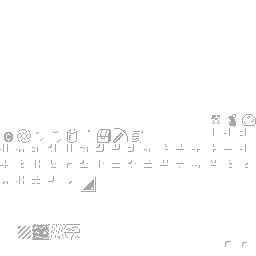
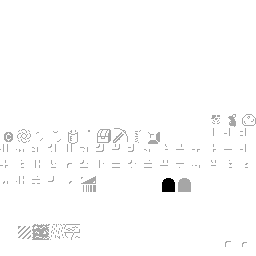
Adding stuff to debug room

diff --git a/tests/GameGameGame.Tests/ContentWorkspaceCompilerTests.cs b/tests/GameGameGame.Tests/ContentWorkspaceCompilerTests.cs
@@ -17,6 +17,10 @@ public sealed class ContentWorkspaceCompilerTests
         Assert.NotNull(result.Registry);
         Assert.Contains(result.Symbols, symbol => symbol.Kind == ContentSymbolKind.EntityTemplate && symbol.Id == "debugPlayer" && symbol.DocumentId == "canonical.creatures.debug-player");
         Assert.Contains(result.Symbols, symbol => symbol.Kind == ContentSymbolKind.ActionPlan && symbol.Id == "debugPlayerActionPlan" && symbol.DocumentId == "canonical.creatures.debug-player");
+        Assert.Contains(result.Symbols, symbol => symbol.Kind == ContentSymbolKind.EntityTemplate && symbol.Id == "scrap" && symbol.DocumentId == "canonical.substrates.scrap");
+        Assert.Contains(result.Symbols, symbol => symbol.Kind == ContentSymbolKind.EntityTemplate && symbol.Id == "chest" && symbol.DocumentId == "canonical.objects.chest");
+        Assert.Contains(result.Symbols, symbol => symbol.Kind == ContentSymbolKind.EntityTemplate && symbol.Id == "bag" && symbol.DocumentId == "canonical.objects.bag");
+        Assert.Contains(result.Symbols, symbol => symbol.Kind == ContentSymbolKind.EntityTemplate && symbol.Id == "pushBlock" && symbol.DocumentId == "canonical.objects.push-block");
         Assert.Contains(result.Symbols, symbol => symbol.Kind == ContentSymbolKind.EntityTemplate && symbol.Id == "debugRoomRoot" && symbol.DocumentId == "canonical.spaces.debug-room-root");
         Assert.Contains(result.Symbols, symbol => symbol.Kind == ContentSymbolKind.Scenario && symbol.Id == "debug-room" && symbol.DocumentId == "debug.debug-room");
         Assert.All(result.WorkspaceDocuments.Where(document => document.SourceKind == ContentWorkspaceSourceKind.Canonical), document => Assert.True(document.IsReadOnly));
@@ -32,11 +36,30 @@ public sealed class ContentWorkspaceCompilerTests
 
         Assert.Empty(materialization.ValidationDiagnostics);
         Assert.Equal(new EntityTemplateId("debugRoomRoot"), materialization.ScenarioRootEntityTemplateId);
-        Assert.Equal(new EntityId("debugPlayer"), materialization.PlayerEntityId);
-        Assert.Equal(new PlaneCoord(new PlaneId("scenarioRoot"), new GridCoord(4, 3)), materialization.PlayerLocation);
+        Assert.Null(materialization.PlayerEntityId);
+        Assert.Null(materialization.PlayerLocation);
+        Assert.Equal([new EntityId("debugPlayer")], materialization.PlayerControls["player-1"]);
+        Assert.Equal(new PlaneCoord(new PlaneId("debugStartRoom"), new GridCoord(4, 3)), materialization.World.GetEntityLocation(new EntityId("debugPlayer")));
+        for (var index = 1; index <= 5; index++)
+        {
+            Assert.True(materialization.World.Entities.ContainsKey(new EntityId($"debugScrap{index}")));
+        }
+
+        Assert.Equal(new PlaneCoord(new PlaneId("debugStartRoom"), new GridCoord(1, 1)), materialization.World.GetEntityLocation(new EntityId("debugChest")));
+        Assert.Equal(new PlaneCoord(new PlaneId("debugStartRoom"), new GridCoord(7, 1)), materialization.World.GetEntityLocation(new EntityId("debugBag")));
+        Assert.Equal(new PlaneCoord(new PlaneId("debugStartRoom"), new GridCoord(4, 4)), materialization.World.GetEntityLocation(new EntityId("debugPushBlock")));
+        var chest = materialization.Registry.EntityTemplates[new EntityTemplateId("chest")];
+        var bag = materialization.Registry.EntityTemplates[new EntityTemplateId("bag")];
+        var pushBlock = materialization.Registry.EntityTemplates[new EntityTemplateId("pushBlock")];
+        Assert.True(chest.Bulk > materialization.Registry.EntityTemplates[new EntityTemplateId("debugPlayer")].Aperture);
+        Assert.True(bag.Bulk <= materialization.Registry.EntityTemplates[new EntityTemplateId("debugPlayer")].Aperture);
+        Assert.True(materialization.Registry.EntityTemplates[new EntityTemplateId("debugPlayer")].Bulk > bag.Aperture);
+        Assert.True(pushBlock.Bulk <= materialization.Registry.EntityTemplates[new EntityTemplateId("debugPlayer")].Aperture);
+        Assert.False(materialization.Registry.EntityTemplates[new EntityTemplateId("debugPlayer")].Bulk > pushBlock.Aperture);
+
         Assert.Empty(run.ValidationDiagnostics);
         Assert.Contains("Run mode: Workspace persisted scenario simulation", run.SetupLines);
-        Assert.Contains(run.FinalStateLines, line => line.Contains("Debug Player: scenarioRoot(4,3), facing North", StringComparison.Ordinal));
+        Assert.Contains(run.FinalStateLines, line => line.Contains("Debug Start Room: scenarioRoot(1,1)", StringComparison.Ordinal));
     }
 
     [Fact]
@@ -716,6 +739,10 @@ public sealed class ContentWorkspaceCompilerTests
     private static ContentWorkspace LoadInitialDebugRoomWorkspace()
     {
         var debugPlayerPath = FindRepositoryFile(Path.Combine("src", "GameGameGame.Content", "Canonical", "Creatures", "DebugPlayer.yaml"));
+        var chestPath = FindRepositoryFile(Path.Combine("src", "GameGameGame.Content", "Canonical", "Objects", "Chest.yaml"));
+        var bagPath = FindRepositoryFile(Path.Combine("src", "GameGameGame.Content", "Canonical", "Objects", "Bag.yaml"));
+        var pushBlockPath = FindRepositoryFile(Path.Combine("src", "GameGameGame.Content", "Canonical", "Objects", "PushBlock.yaml"));
+        var scrapPath = FindRepositoryFile(Path.Combine("src", "GameGameGame.Content", "Canonical", "Substrates", "Scrap.yaml"));
         var debugRoomRootPath = FindRepositoryFile(Path.Combine("src", "GameGameGame.Content", "Canonical", "Spaces", "DebugRoomRoot.yaml"));
         var scenarioPath = FindRepositoryFile(Path.Combine("src", "GameGameGame.Content", "Debug", "DebugRoom.yaml"));
 
@@ -724,6 +751,30 @@ public sealed class ContentWorkspaceCompilerTests
                 EditableContentDocument.LoadYaml(File.ReadAllText(debugPlayerPath)),
                 "canonical.creatures.debug-player",
                 debugPlayerPath,
+                ContentWorkspaceSourceKind.Canonical,
+                IsReadOnly: true),
+            new ContentWorkspaceDocument(
+                EditableContentDocument.LoadYaml(File.ReadAllText(chestPath)),
+                "canonical.objects.chest",
+                chestPath,
+                ContentWorkspaceSourceKind.Canonical,
+                IsReadOnly: true),
+            new ContentWorkspaceDocument(
+                EditableContentDocument.LoadYaml(File.ReadAllText(bagPath)),
+                "canonical.objects.bag",
+                bagPath,
+                ContentWorkspaceSourceKind.Canonical,
+                IsReadOnly: true),
+            new ContentWorkspaceDocument(
+                EditableContentDocument.LoadYaml(File.ReadAllText(pushBlockPath)),
+                "canonical.objects.push-block",
+                pushBlockPath,
+                ContentWorkspaceSourceKind.Canonical,
+                IsReadOnly: true),
+            new ContentWorkspaceDocument(
+                EditableContentDocument.LoadYaml(File.ReadAllText(scrapPath)),
+                "canonical.substrates.scrap",
+                scrapPath,
                 ContentWorkspaceSourceKind.Canonical,
                 IsReadOnly: true),
             new ContentWorkspaceDocument(

diff --git a/src/GameGameGame.Frontend.SadConsole/PlayGridViewModel.cs b/src/GameGameGame.Frontend.SadConsole/PlayGridViewModel.cs
@@ -23,14 +23,18 @@ internal sealed record PlayGridViewModel(
     int Height,
     IReadOnlyList<PlayCellVisual> Cells,
     EntityId ControlledEntityId,
-    GridCoord? ControlledEntityCoord)
+    GridCoord? ControlledEntityCoord,
+    PlaneId PlaneId,
+    EntityId? ContainerEntityId)
 {
-    public PlayCellVisual CellAt(int x, int y) => Cells.Single(cell => cell.X == x && cell.Y == y);
+    public PlayCellVisual? TryCellAt(int x, int y) => Cells.FirstOrDefault(cell => cell.X == x && cell.Y == y);
+
+    public PlayCellVisual CellAt(int x, int y) => TryCellAt(x, y)
+        ?? throw new InvalidOperationException($"Cell ({x},{y}) is outside rendered plane {PlaneId}.");
 
     public static PlayGridViewModel FromSession(PlayableScenarioSession session, TilesetProfile tilesetProfile)
     {
-        var planeId = session.World.GetRegisteredInventoryPlaneId(session.ActiveContainerEntityId)
-            ?? session.ActivePlaneId;
+        var planeId = ResolveRenderedPlane(session);
         var plane = session.World.Planes[planeId];
         var cells = new List<PlayCellVisual>();
 
@@ -62,8 +66,12 @@ internal sealed record PlayGridViewModel(
         }
 
         var controlledCoord = session.World.Entities.ContainsKey(session.PlayerEntityId)
+            && session.World.GetEntityLocation(session.PlayerEntityId).PlaneId == planeId
             ? session.World.GetEntityLocation(session.PlayerEntityId).Coord
             : (GridCoord?)null;
+        var containerEntityId = InventoryPlaneOwnership.TryFindOwner(session.World, planeId, out var ownerId)
+            ? ownerId
+            : (EntityId?)null;
 
         return new PlayGridViewModel(
             session.Name,
@@ -71,7 +79,29 @@ internal sealed record PlayGridViewModel(
             plane.Height,
             cells,
             session.PlayerEntityId,
-            controlledCoord);
+            controlledCoord,
+            planeId,
+            containerEntityId);
+    }
+
+    private static PlaneId ResolveRenderedPlane(PlayableScenarioSession session)
+    {
+        if (session.World.Entities.ContainsKey(session.PlayerEntityId))
+        {
+            var playerPlane = session.World.GetEntityLocation(session.PlayerEntityId).PlaneId;
+            if (session.World.Planes.ContainsKey(playerPlane))
+            {
+                return playerPlane;
+            }
+        }
+
+        var activeContainerPlane = session.World.GetRegisteredInventoryPlaneId(session.ActiveContainerEntityId);
+        if (activeContainerPlane is { } planeId && session.World.Planes.ContainsKey(planeId))
+        {
+            return planeId;
+        }
+
+        return session.ActivePlaneId;
     }
 
     private static int ResolveEntityGlyph(PlayableScenarioSession session, TilesetProfile tilesetProfile, EntityId entityId)

diff --git a/src/GameGameGame.Content/WorkspaceScenarioCatalogService.cs b/src/GameGameGame.Content/WorkspaceScenarioCatalogService.cs
@@ -39,6 +39,10 @@ public static class WorkspaceScenarioCatalogService
     public static readonly IReadOnlyList<string> DefaultDebugRoomWorkspacePaths =
     [
         Path.Combine("src", "GameGameGame.Content", "Canonical", "Creatures", "DebugPlayer.yaml"),
+        Path.Combine("src", "GameGameGame.Content", "Canonical", "Objects", "Chest.yaml"),
+        Path.Combine("src", "GameGameGame.Content", "Canonical", "Objects", "Bag.yaml"),
+        Path.Combine("src", "GameGameGame.Content", "Canonical", "Objects", "PushBlock.yaml"),
+        Path.Combine("src", "GameGameGame.Content", "Canonical", "Substrates", "Scrap.yaml"),
         Path.Combine("src", "GameGameGame.Content", "Canonical", "Spaces", "DebugRoomRoot.yaml"),
         Path.Combine("src", "GameGameGame.Content", "Debug", "DebugRoom.yaml")
     ];
@@ -159,6 +163,16 @@ public static class WorkspaceScenarioCatalogService
         if (relativePath.Contains(Path.Combine("Canonical", "Spaces"), StringComparison.OrdinalIgnoreCase))
         {
             return $"canonical.spaces.{ToKebabCase(fileName)}";
+        }
+
+        if (relativePath.Contains(Path.Combine("Canonical", "Substrates"), StringComparison.OrdinalIgnoreCase))
+        {
+            return $"canonical.substrates.{ToKebabCase(fileName)}";
+        }
+
+        if (relativePath.Contains(Path.Combine("Canonical", "Objects"), StringComparison.OrdinalIgnoreCase))
+        {
+            return $"canonical.objects.{ToKebabCase(fileName)}";
         }
 
         if (relativePath.Contains(Path.Combine("Debug"), StringComparison.OrdinalIgnoreCase))

diff --git a/src/GameGameGame.Frontend.SadConsole/PlayModeConsole.cs b/src/GameGameGame.Frontend.SadConsole/PlayModeConsole.cs
@@ -152,7 +152,7 @@ internal sealed class PlayModeConsole : Console
         ClearSurface();
         DrawBorder();
         Print(2, 1, $"Play: {_session.Name} [{_session.ScenarioId}]", Color.White);
-        Print(2, 2, $"Current place: {_session.ActiveContainerEntityId} | Player: {_session.PlayerEntityId} | {_message}", Color.Gray);
+        Print(2, 2, $"Current place: {CurrentPlaceLabel()} | Player: {_session.PlayerEntityId} | {_message}", Color.Gray);
         var visibleGrid = _animationPresenter.BaseGrid ?? _grid;
         var hidden = _animationPresenter.IsAnimating ? new HashSet<EntityId> { _session.PlayerEntityId } : null;
         var previewCoord = _movementPreview.TryDestination(_grid.ControlledEntityCoord ?? new GridCoord(0, 0), out var destination)
@@ -181,6 +181,19 @@ internal sealed class PlayModeConsole : Console
                 SetGlyph(x, y, _tilesetProfile.Blank, Color.White, Color.Black);
             }
         }
+    }
+
+    private string CurrentPlaceLabel()
+    {
+        var placeId = _grid.ContainerEntityId;
+        if (placeId is null)
+        {
+            return _grid.PlaneId.ToString();
+        }
+
+        return _session.World.Entities.TryGetValue(placeId.Value, out var entity) && !string.IsNullOrWhiteSpace(entity.Name)
+            ? $"{entity.Name} ({placeId})"
+            : placeId.Value.ToString();
     }
 
     private void DrawBorder()

diff --git a/src/GameGameGame.Frontend.SadConsole/PlayMovementAnimationPresenter.cs b/src/GameGameGame.Frontend.SadConsole/PlayMovementAnimationPresenter.cs
@@ -33,11 +33,18 @@ internal sealed class PlayMovementAnimationPresenter(
     public void Start(PlayGridViewModel beforeGrid, GridCoord before, GridCoord after, CoreDirection direction)
     {
         BaseGrid = beforeGrid;
+        var cell = beforeGrid.TryCellAt(before.X, before.Y);
+        if (cell?.EntityGlyph is null)
+        {
+            Clear();
+            return;
+        }
+
         var facing = tilesetProfile.Roles.FacingGlyph(direction);
         var entity = new PlayEntityVisualBundle(
             entityId.Value,
             new PlayWorldCoord(before.X, before.Y),
-            new PlayVisualGlyph(beforeGrid.CellAt(before.X, before.Y).EntityGlyph ?? '?', Color.Yellow, Color.Black, PlayRenderLayer.EntitySprite, $"entity:{entityId}:sprite"),
+            new PlayVisualGlyph(cell.EntityGlyph.Value, Color.Yellow, Color.Black, PlayRenderLayer.EntitySprite, $"entity:{entityId}:sprite"),
             [new PlayVisualGlyph(facing.Glyph, Color.LightYellow, Color.Black, PlayRenderLayer.EntityAccent, $"entity:{entityId}:facing")],
             []);
         var move = new PlayMoveAnimation(entityId.Value, new PlayWorldCoord(before.X, before.Y), new PlayWorldCoord(after.X, after.Y), settings.MoveDuration);

diff --git a/tests/GameGameGame.Tests/WorkspaceScenarioCatalogServiceTests.cs b/tests/GameGameGame.Tests/WorkspaceScenarioCatalogServiceTests.cs
@@ -34,7 +34,7 @@ public sealed class WorkspaceScenarioCatalogServiceTests
         Assert.Equal("Debug Room", session.Name);
         Assert.True(session.CanPlay, string.Join(Environment.NewLine, session.ValidationDiagnostics.Concat(session.RuntimeFailures).Concat(session.CapabilityGaps)));
         Assert.Equal(new EntityId("debugPlayer"), session.PlayerEntityId);
-        Assert.Equal(new PlaneCoord(new PlaneId("scenarioRoot"), new GridCoord(4, 3)), session.World.GetEntityLocation(session.PlayerEntityId));
+        Assert.Equal(new PlaneCoord(new PlaneId("debugStartRoom"), new GridCoord(4, 3)), session.World.GetEntityLocation(session.PlayerEntityId));
     }
 
     [Fact]

diff --git a/tests/GameGameGame.Frontend.SadConsole.Tests/PlayGridViewModelTests.cs b/tests/GameGameGame.Frontend.SadConsole.Tests/PlayGridViewModelTests.cs
@@ -17,6 +17,7 @@ public sealed class PlayGridViewModelTests
 
         Assert.Equal(9, grid.Width);
         Assert.Equal(7, grid.Height);
+        Assert.Equal(new GameGameGame.Core.EntityId("debugStartRoom"), grid.ContainerEntityId);
         Assert.Equal(63, grid.Cells.Count);
         Assert.All(grid.Cells, cell => Assert.Equal(tileset.Roles.DefaultBackdrop, cell.BackdropGlyph));
         Assert.Equal(new GameGameGame.Core.GridCoord(4, 3), grid.ControlledEntityCoord);

diff --git a/docs/Plans/Multi-Document-Content-Workspace-Compiler-Sprint-Plan.md b/docs/Plans/Multi-Document-Content-Workspace-Compiler-Sprint-Plan.md
@@ -482,10 +482,15 @@ New intentionally failing tests before production changes:
 
 - 2026-08-11 incremental content-editor start: created the first split promoted/debug workspace content instead of promoting every category at once. Added canonical `debugPlayer` plus `debugPlayerActionPlan` in `src/GameGameGame.Content/Canonical/Creatures/DebugPlayer.yaml`, canonical reusable `debugRoomRoot` in `src/GameGameGame.Content/Canonical/Spaces/DebugRoomRoot.yaml`, and the initial `debug-room` scenario in `src/GameGameGame.Content/Debug/DebugRoom.yaml`. The initial scenario contains only the room and player; future promotions should add one piece of content at a time and test it by placing it in this debug room workspace.
 - Verification: `dotnet test tests/GameGameGame.Tests/GameGameGame.Tests.csproj --filter "FullyQualifiedName~DebugRoomWorkspace|FullyQualifiedName~ContentWorkspaceCompiler|FullyQualifiedName~AgentContentEditorApiValidatesMultiDocumentWorkspace|FullyQualifiedName~AgentContentEditorApiRunsWorkspaceScenarioById"` passed 22 tests.
+- 2026-08-11 scenario-root content rule refactor: updated `debugRoomRoot` to act as the scenario/world container, added child `debugStartRoom`, moved placed `debugPlayer` into `debugStartRoom` with `controller: Player`, and removed legacy player insertion fields from `debug-room`. Added `Content-Authoring-Manual.md` guidance that new composed/exhibit scenarios should place players and ordinary interactables inside room-like child entities instead of directly in the scenario root. Verification: `dotnet test tests/GameGameGame.Tests/GameGameGame.Tests.csproj --filter "FullyQualifiedName~DebugRoomWorkspace|FullyQualifiedName~ContentWorkspaceCompiler|FullyQualifiedName~WorkspaceScenarioCatalog"` passed 25 tests.
+- 2026-08-11 substrate promotion: added canonical `scrap` substrate in `src/GameGameGame.Content/Canonical/Substrates/Scrap.yaml` using semantic `item.coin` / `item.coin.default` presentation with glyph/color fallback. Added five `scrap` instances to `debugStartRoom` and included the substrate document in the default workspace scenario catalog. Verification: `dotnet test tests/GameGameGame.Tests/GameGameGame.Tests.csproj --filter "FullyQualifiedName~DebugRoomWorkspace|FullyQualifiedName~ContentWorkspaceCompiler|FullyQualifiedName~WorkspaceScenarioCatalog"` passed 25 tests.
+- 2026-08-11 object promotion: added canonical `chest` in `src/GameGameGame.Content/Canonical/Objects/Chest.yaml` using semantic `item.box` / `item.box.default` and canonical `bag` in `src/GameGameGame.Content/Canonical/Objects/Bag.yaml` using semantic `item.bag` / `item.bag.default`. Placed `debugChest` and `debugBag` in `debugStartRoom`; chest is intentionally not portable by the debug player (`bulk` exceeds player aperture), while bag is portable by the debug player (`bulk` fits player aperture and player bulk exceeds bag aperture). Included both object documents in the default workspace scenario catalog. Verification: `dotnet test tests/GameGameGame.Tests/GameGameGame.Tests.csproj --filter "FullyQualifiedName~DebugRoomWorkspace|FullyQualifiedName~ContentWorkspaceCompiler|FullyQualifiedName~WorkspaceScenarioCatalog"` passed 25 tests.
+- 2026-08-11 push-block promotion: added canonical `pushBlock` in `src/GameGameGame.Content/Canonical/Objects/PushBlock.yaml` using semantic `object.pushBlock` / `object.pushBlock.default`, with local catalog/palette fallback. Placed `debugPushBlock` in `debugStartRoom`; it is pushable-sized for the debug player (`bulk` fits player aperture) but not portable as inventory (`player bulk` does not fit push-block aperture). Included the object document in the default workspace scenario catalog. Verification: `dotnet test tests/GameGameGame.Tests/GameGameGame.Tests.csproj --filter "FullyQualifiedName~DebugRoomWorkspace|FullyQualifiedName~ContentWorkspaceCompiler|FullyQualifiedName~WorkspaceScenarioCatalog"` passed 25 tests.
 
 #### Phase 7 friction log
 
-- None for the initial room/player slice.
+- 2026-08-11: Targeted test build was blocked by a stale `GameGameGame.Content.Tools` process holding Content/Core DLLs. Mitigation used: stopped process ID `4356` and reran targeted tests successfully.
+- 2026-08-11: The headless run final-state summary reports the scenario root's immediate contents and did not include nested `debugPlayer` details after moving the player into `debugStartRoom`. Mitigation: updated the test to assert nested player placement through the materialized world and keep the run assertion focused on root immediate contents/run mode.
 
 ## Expected diagnostics vocabulary
 

diff --git a/docs/Plans/Frontend-SadConsole-Workspace-Browser-Sprint-Plan.md b/docs/Plans/Frontend-SadConsole-Workspace-Browser-Sprint-Plan.md
@@ -325,6 +325,8 @@ Reference only: `src/GameGameGame.SadConsole` and `tests/GameGameGame.SadConsole
 - Verification: targeted layered-play/movement/play-grid tests passed with temporary artifacts: `dotnet test tests/GameGameGame.Frontend.SadConsole.Tests/GameGameGame.Frontend.SadConsole.Tests.csproj --artifacts-path C:\Users\Scramble\AppData\Local\Temp\opencode\ggg-facing-animation-tests3 --filter "LayeredPlaySurface|PlayMovement|PlayGrid|MovementPreview" -m:1` passed 28 tests.
 - 2026-08-12 Play controller extraction checkpoint: Extracted `PlayInputController`/`PlayControlIntent` to convert SadConsole keyboard state into a standard Play control language (`AimMove`, `ConfirmMove`, `ClearMoveAim`, `Cancel`) and extracted `PlayMovementAnimationPresenter` to own the pixel-positioned movement sprite, animation playback, hidden-base-grid state, and attached facing decorator. `PlayModeConsole` is now mostly orchestration between input intents, shared movement commands, animation presenter, grid rendering, and status text.
 - Verification: full frontend SadConsole tests passed with isolated artifacts: `dotnet test tests/GameGameGame.Frontend.SadConsole.Tests/GameGameGame.Frontend.SadConsole.Tests.csproj --artifacts-path C:\Users\Scramble\AppData\Local\Temp\opencode\ggg-play-controller-full -m:1` passed 71 tests.
+- 2026-08-12 nested-room Play start fix: Updated `PlayGridViewModel` to render the current controlled actor's containing plane first, rather than always rendering the scenario root/active container plane. This supports the revised `debug-room` shape where `debugStartRoom` is inside the scenario root and the player starts inside `debugStartRoom`. The grid model now records rendered plane/container identity, and movement animation startup no longer crashes if the requested source cell/entity is not present in the rendered grid; it clears/skips the transient animation and lets the committed-state redraw recover.
+- Verification: full frontend SadConsole tests passed with isolated artifacts: `dotnet test tests/GameGameGame.Frontend.SadConsole.Tests/GameGameGame.Frontend.SadConsole.Tests.csproj --artifacts-path C:\Users\Scramble\AppData\Local\Temp\opencode\ggg-nested-room-full -m:1` passed 71 tests.
 
 ## Friction log
 

diff --git a/docs/Source of Truth/Content-Authoring-Manual.md b/docs/Source of Truth/Content-Authoring-Manual.md
@@ -273,6 +273,8 @@ Targeting rules currently select by optional template ID, target-capability adje
 
 Author scenarios as small compositions of normal content.
 
+For new composed/exhibit scenarios, treat the scenario root as a world/level container rather than a gameplay room. Players and ordinary interactable objects should normally be placed inside room-like child entities contained by the root, with playable actors authored as placed instances using `controller: Player`. Use direct placement in the scenario-root plane only for root-only compatibility tests, small engine/editor fixtures, intentionally container-like scenarios, or legacy content awaiting migration.
+
 Current persisted scenario fields:
 
 | Field | Purpose |

diff --git a/.opencode/agent/content-editor.md b/.opencode/agent/content-editor.md
@@ -5,14 +5,17 @@ model: openai/gpt-5.5
 permission:
   read:
     "*": ask
+    "assets/Candii.tileset.json": allow
     "docs/*": allow
     "src/*": deny
     "src/GameGameGame.Content/*": allow
+    "tests/*": allow
   edit:
     "*": ask
     "docs/*": allow
     "src/*": deny
     "src/GameGameGame.Content/*": allow
+    "tests/*": deny
   task:
     "frontend-owner": allow
     "core-owner": allow
